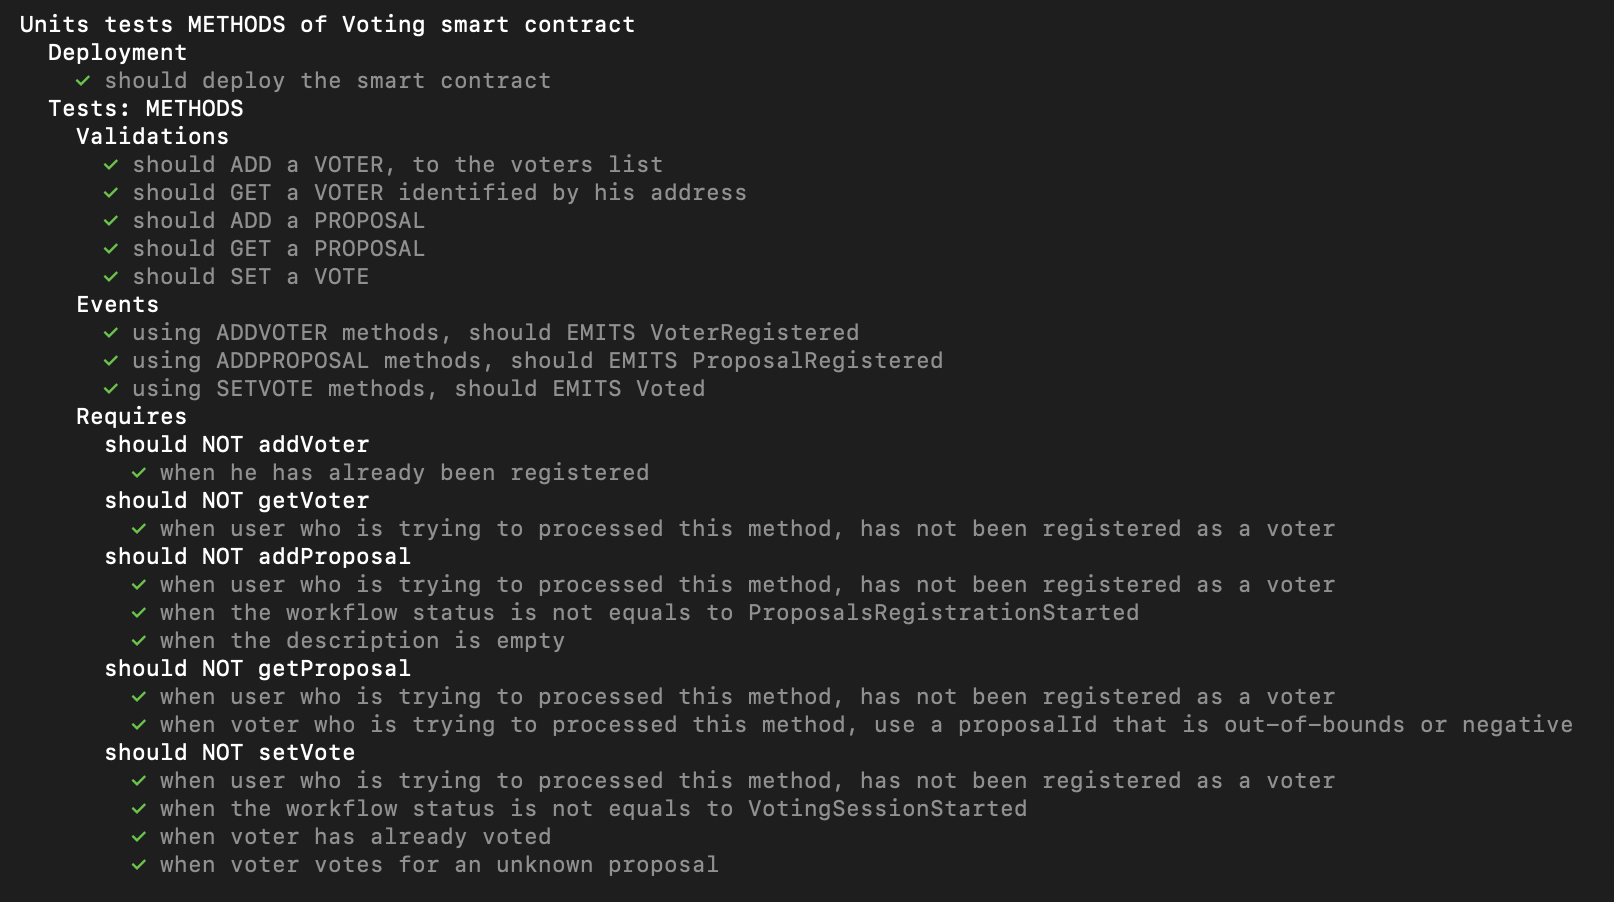
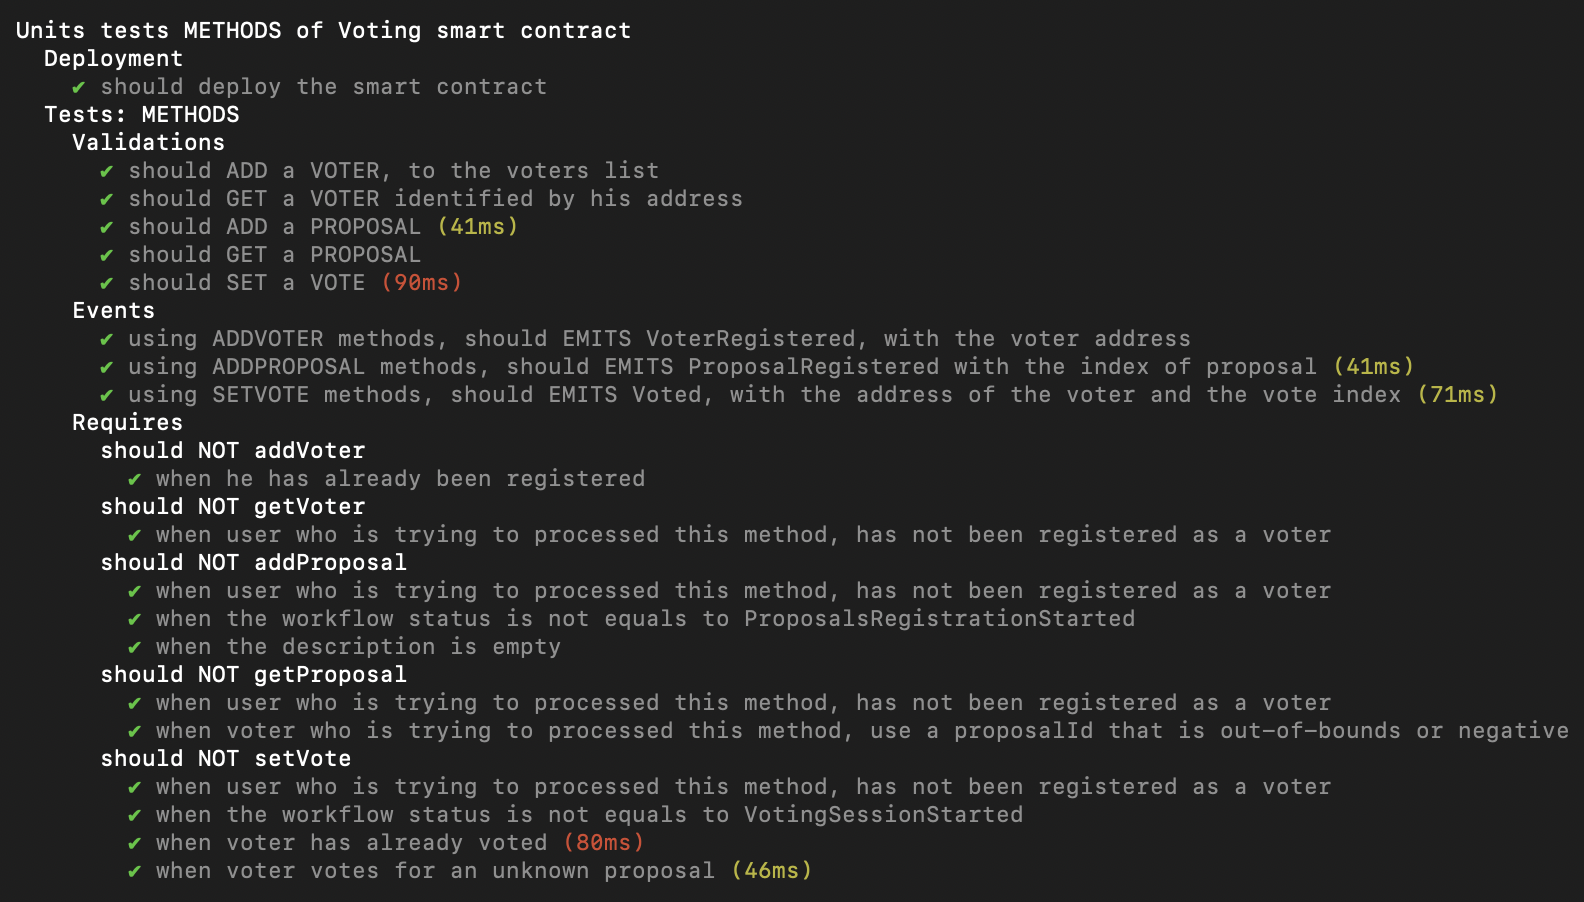
Add withArgs to test which emit events

Changed region(s): [[0.0, 0.0, 0.9899, 0.9933], [0.8971, 0.4346, 0.928, 0.4656]]

diff --git a/test/unit/votingsytem_state.test.js b/test/unit/votingsytem_state.test.js
@@ -88,7 +88,9 @@ const { developmentChains } = require("../../helper-hardhet-config")
               currentStatus = await voting.workflowStatus.call();
               assert(ethers.BigNumber.from(currentStatus).toString() === RegisteringVoters.toString())
 
-              await expect(voting.startProposalsRegistering()).to.emit(voting, "WorkflowStatusChange")
+              await expect(voting.startProposalsRegistering())
+                .to.emit(voting, "WorkflowStatusChange")
+                .withArgs(0, 1)
 
               currentStatus = await voting.workflowStatus.call();
               assert(ethers.BigNumber.from(currentStatus).toString() === ProposalsRegistrationStarted.toString())
@@ -101,7 +103,9 @@ const { developmentChains } = require("../../helper-hardhet-config")
               currentStatus = await voting.workflowStatus.call();
               assert(ethers.BigNumber.from(currentStatus).toString() === ProposalsRegistrationStarted.toString())
 
-              await expect(await voting.endProposalsRegistering()).to.emit(voting, "WorkflowStatusChange")
+              await expect(await voting.endProposalsRegistering())
+                .to.emit(voting, "WorkflowStatusChange")
+                .withArgs(1, 2)
 
               currentStatus = await voting.workflowStatus.call();
               assert(ethers.BigNumber.from(currentStatus).toString() === ProposalsRegistrationEnded.toString())
@@ -115,7 +119,9 @@ const { developmentChains } = require("../../helper-hardhet-config")
               currentStatus = await voting.workflowStatus.call();
               assert(ethers.BigNumber.from(currentStatus).toString() === ProposalsRegistrationEnded.toString())
 
-              await expect(await voting.startVotingSession()).to.emit(voting, "WorkflowStatusChange")
+              await expect(await voting.startVotingSession())
+                .to.emit(voting, "WorkflowStatusChange")
+                .withArgs(2, 3)
 
               currentStatus = await voting.workflowStatus.call();
               assert(ethers.BigNumber.from(currentStatus).toString() === VotingSessionStarted.toString())
@@ -130,7 +136,9 @@ const { developmentChains } = require("../../helper-hardhet-config")
               currentStatus = await voting.workflowStatus.call();
               assert(ethers.BigNumber.from(currentStatus).toString() === VotingSessionStarted.toString())
 
-              await expect(await voting.endVotingSession()).to.emit(voting, "WorkflowStatusChange")
+              await expect(await voting.endVotingSession())
+                .to.emit(voting, "WorkflowStatusChange")
+                .withArgs(3, 4)
 
               currentStatus = await voting.workflowStatus.call();
               assert(ethers.BigNumber.from(currentStatus).toString() === VotingSessionEnded.toString())
@@ -146,7 +154,9 @@ const { developmentChains } = require("../../helper-hardhet-config")
               currentStatus = await voting.workflowStatus.call();
               assert(ethers.BigNumber.from(currentStatus).toString() === VotingSessionEnded.toString())
 
-              await expect(await voting.tallyVotes()).to.emit(voting, "WorkflowStatusChange")
+              await expect(await voting.tallyVotes())
+                .to.emit(voting, "WorkflowStatusChange")
+                .withArgs(4, 5)
 
               currentStatus = await voting.workflowStatus.call();
               assert(ethers.BigNumber.from(currentStatus).toString() === VotesTallied.toString())

diff --git a/test/unit/votingsystem_methods.test.js b/test/unit/votingsystem_methods.test.js
@@ -80,24 +80,32 @@ const { developmentChains } = require("../../helper-hardhet-config")
         })
 
         describe("Events", function() {
-          it("using ADDVOTER methods, should EMITS VoterRegistered", async function() {
-            await expect(voting.addVoter(accounts[1].getAddress())).to.emit(voting, "VoterRegistered")
+          it("using ADDVOTER methods, should EMITS VoterRegistered, with the voter address", async function() {
+            await expect(voting.addVoter(accounts[1].getAddress()))
+              .to.emit(voting, "VoterRegistered")
+              .withArgs(await accounts[1].getAddress())
           })
-          it("using ADDPROPOSAL methods, should EMITS ProposalRegistered", async function() {
+
+          it("using ADDPROPOSAL methods, should EMITS ProposalRegistered with the index of proposal", async function() {
             await voting.addVoter(accounts[1].getAddress())
             await voting.startProposalsRegistering()
 
-            await expect(voting.connect(accounts[1]).addProposal("Proposal 1")).to.emit(voting, "ProposalRegistered")
+            await expect(voting.connect(accounts[1]).addProposal("Proposal 1"))
+              .to.emit(voting, "ProposalRegistered")
+              .withArgs(1)
           })
 
-          it("using SETVOTE methods, should EMITS Voted", async function() {
+          it("using SETVOTE methods, should EMITS Voted, with the address of the voter and the vote index", async function() {
             await voting.addVoter(accounts[1].getAddress())
             await voting.startProposalsRegistering()
             await voting.connect(accounts[1]).addProposal('Proposal 1')
             await voting.endProposalsRegistering()
             await voting.startVotingSession()
-
-            await expect(voting.connect(accounts[1]).setVote(1)).to.emit(voting, "Voted")
+            
+            const proposalIdChosen = 1
+            await expect(voting.connect(accounts[1]).setVote(proposalIdChosen))
+              .to.emit(voting, "Voted")
+              .withArgs(await accounts[1].getAddress(), proposalIdChosen)
           })
         })
 
